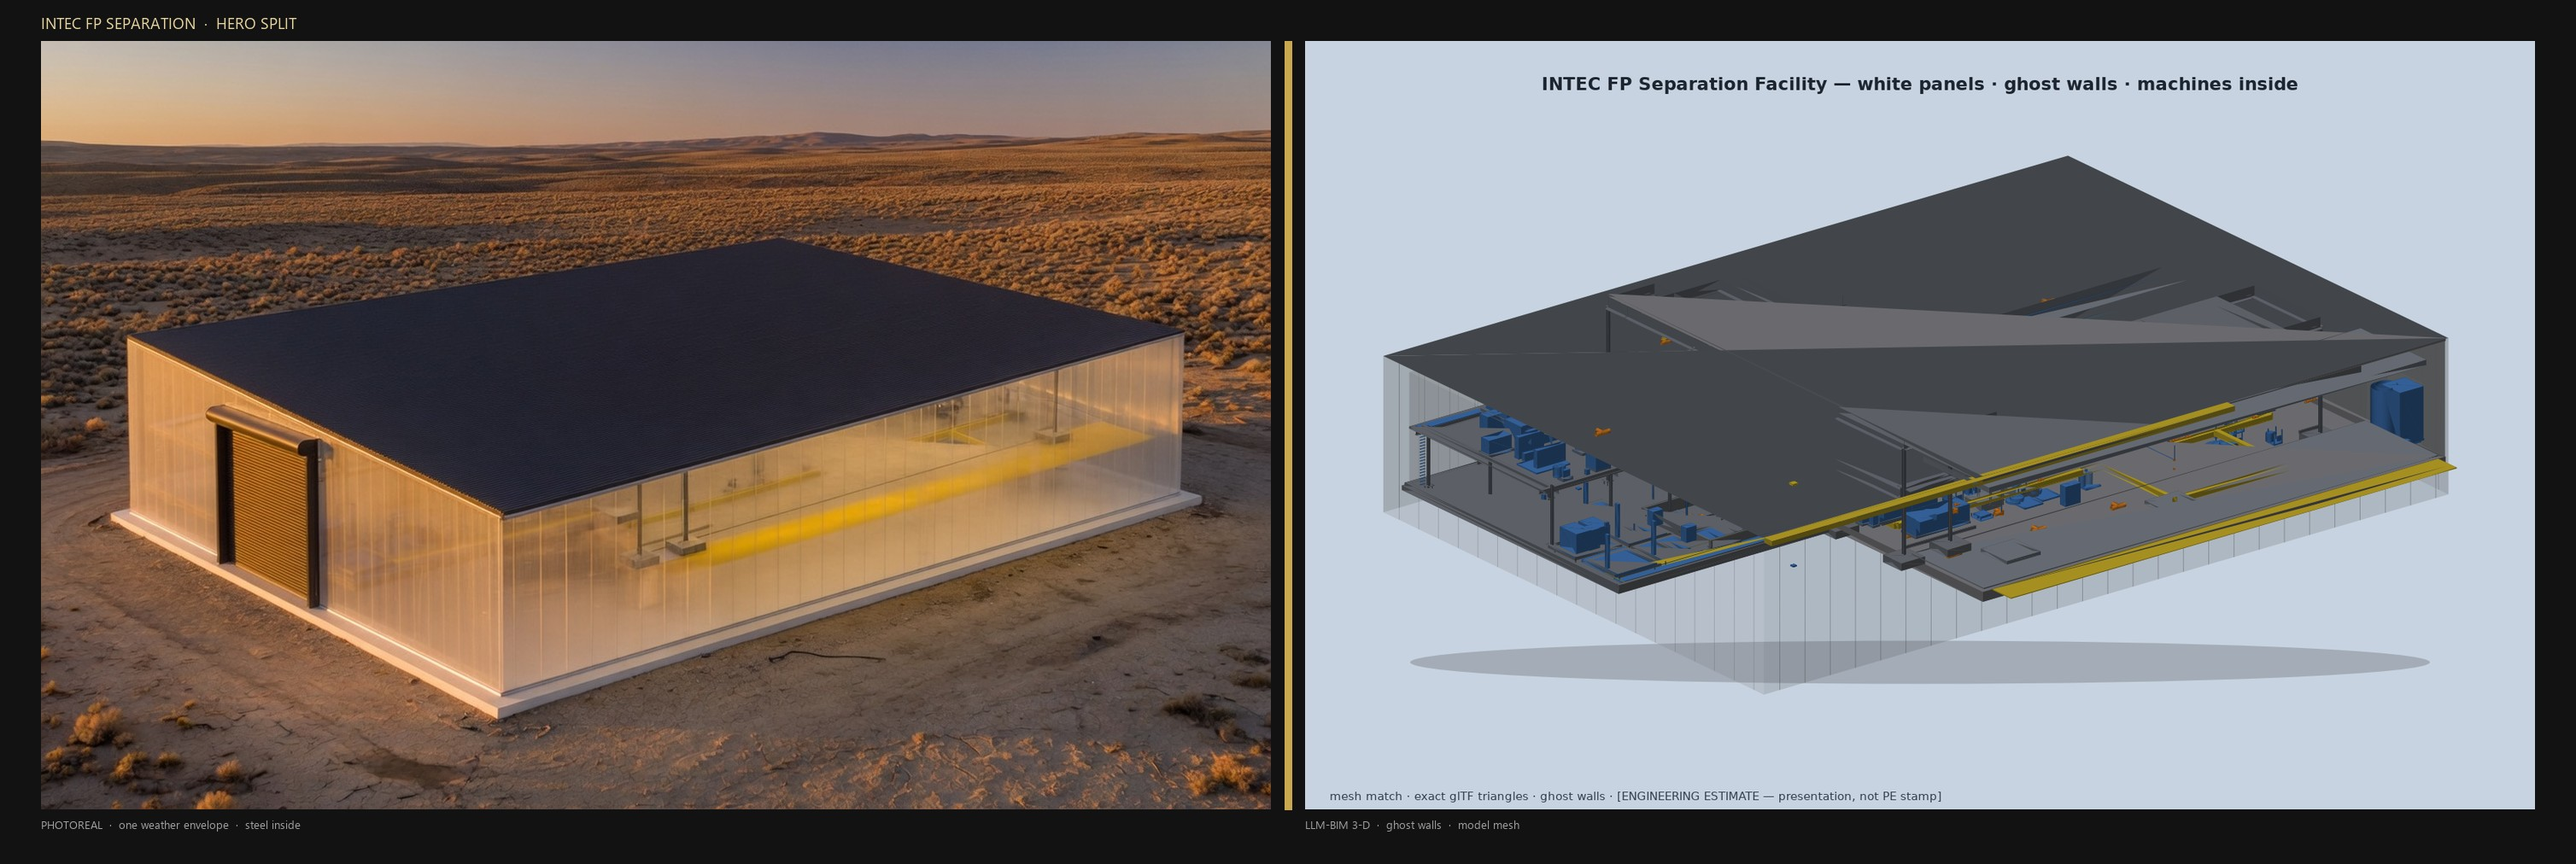
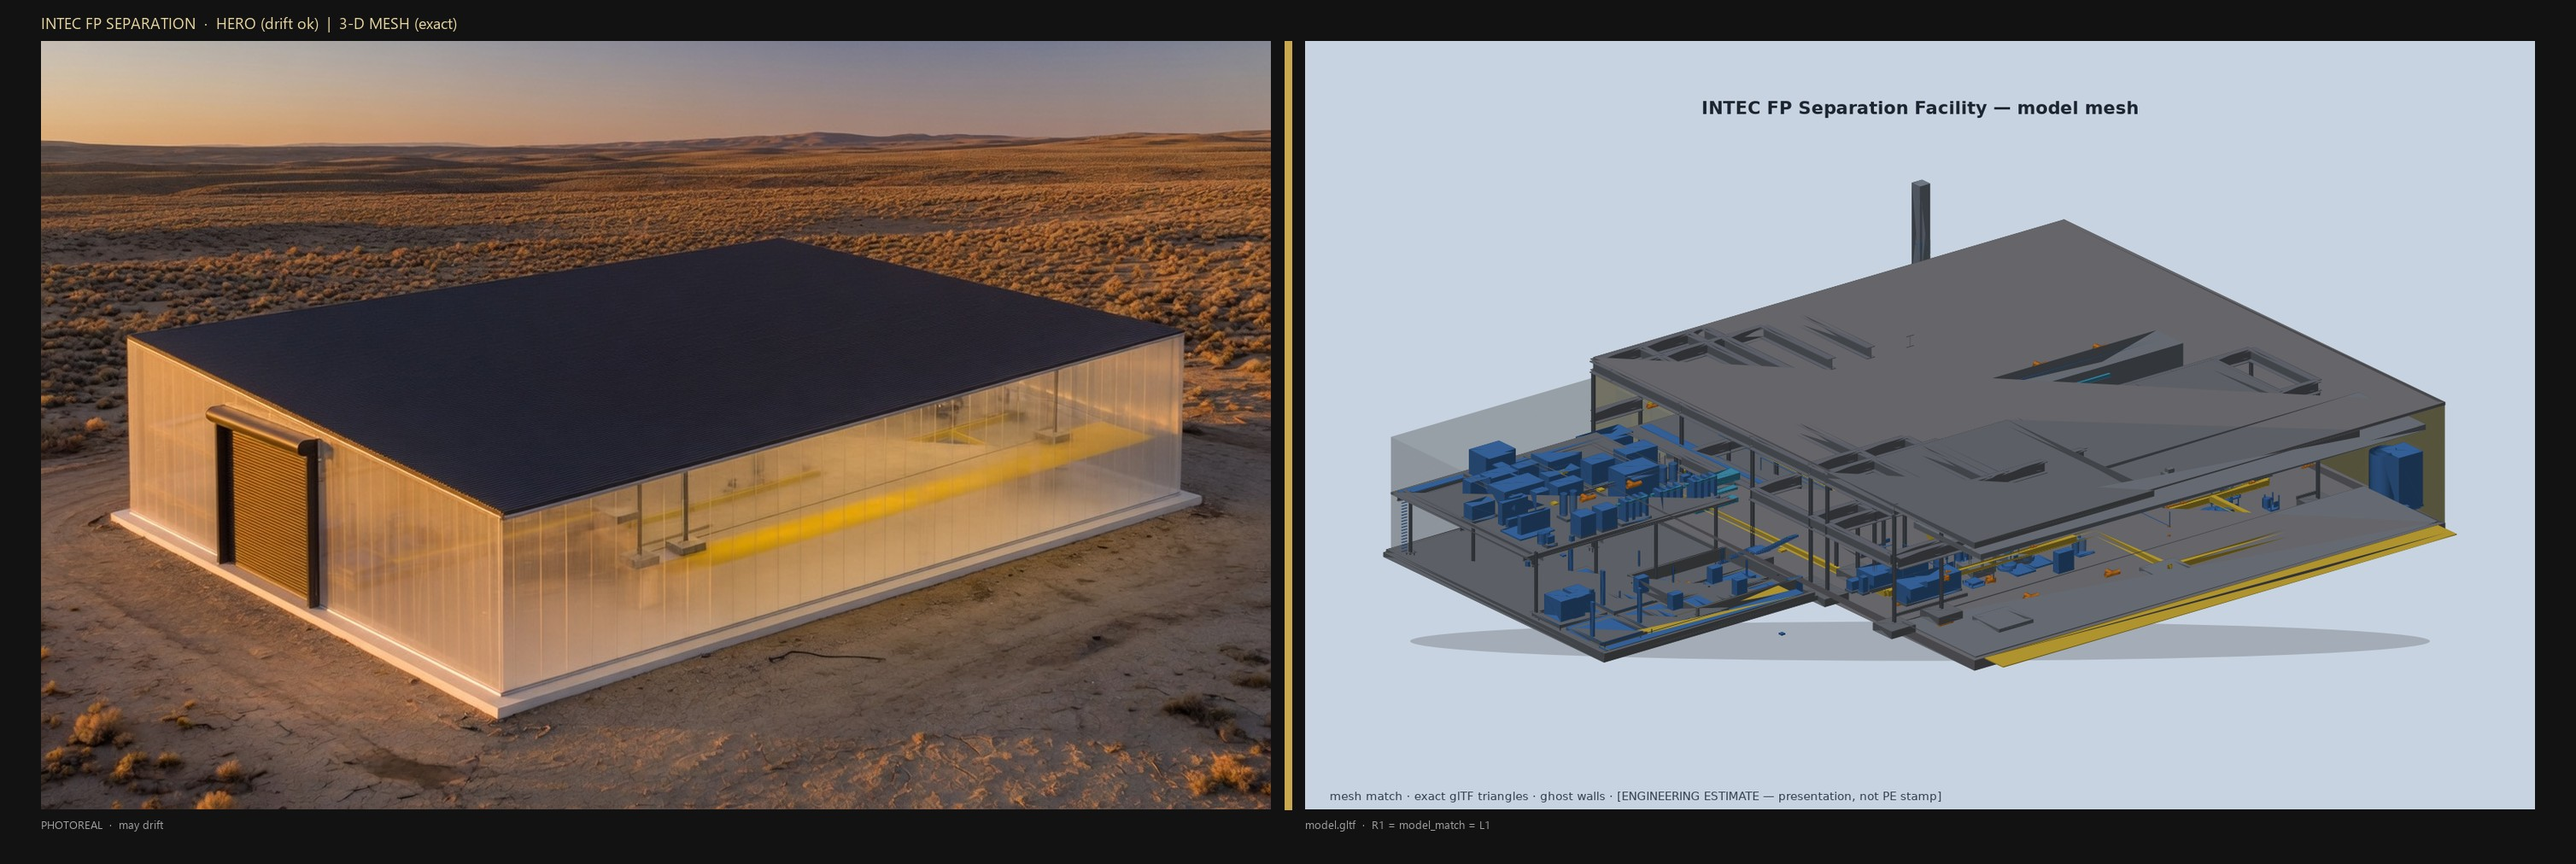
intec: mesh ISOs are the model, not a restaged hero
Stop injecting a padded AABB shell and a yellow eave to match the
photoreal still. R1 / model_match / plan / elev / L1-L3 are the same
glTF triangles as viewer3d. Hero may drift.

diff --git a/packages/geometry/llmbim_geometry/render_hero.py b/packages/geometry/llmbim_geometry/render_hero.py
@@ -278,12 +278,17 @@ def _quad(a: _Vec3, b: _Vec3, c: _Vec3, d: _Vec3, key: str) -> list[_Tri]:
 
 
 def _inject_closed_envelope(tris: list[_Tri]) -> list[_Tri]:
-    """Solid roof deck + perimeter walls so product stills are closed exterior.
+    """DEPRECATED restage — do not call for product stills.
 
-    Pack glTF often lacks continuous roof/facade faces — beams read as open
-    steel and isos look into the hall. Cap + four wall planes seal the shell;
-    walls use material ``wall`` (lightly ghosted); roof stays solid.
+    Invented a padded AABB shell + roof that did not match model.gltf.
+    Ryan 2026-08-17: 3-D IS the model; ISOs must match it exactly.
+    Kept only so old callers do not ImportError.
     """
+    return list(tris)
+
+
+def _inject_closed_envelope_LEGACY_UNUSED(tris: list[_Tri]) -> list[_Tri]:
+    """Former fake shell. Not used. Left for git blame."""
     if not tris:
         return tris
     x0, x1, y0, y1, z0, z1 = _shell_bounds(tris)
@@ -353,47 +358,26 @@ def _inject_closed_envelope(tris: list[_Tri]) -> list[_Tri]:
 
 
 def _inject_yellow_canopy(tris: list[_Tri], shell_tris: list[_Tri]) -> list[_Tri]:
-    """South/east eave canopy strip (hero match — yellow apron on photo)."""
-    x0, x1, y0, y1, z0, z1 = _shell_bounds(tris)
-    strip_h = 0.50
-    yb = y1 - strip_h - 0.08
-    yt = y1 - 0.06
-    xs = x0 + 0.32 * (x1 - x0)
-    xe = x1 - 0.04
-    zo = z0 - 1.15
-    zi = z0 + 0.04
-    # equip_gas keyed yellow; presentation_tint maps to canopy gold
-    return (
-        _quad((xs, yb, zo), (xe, yb, zo), (xe, yt, zo), (xs, yt, zo), "equip_gas")
-        + _quad((xs, yb, zi), (xs, yb, zo), (xs, yt, zo), (xs, yt, zi), "equip_gas")
-        + _quad((xe, yb, zo), (xe, yb, zi), (xe, yt, zi), (xe, yt, zo), "equip_gas")
-        + _quad((xs, yt, zo), (xe, yt, zo), (xe, yt, zi), (xs, yt, zi), "equip_gas")
-        + shell_tris
-    )
+    """DEPRECATED — do not invent a yellow eave to match a photoreal hero.
+
+    Ryan 2026-08-17: hero may drift; mesh ISOs must be the model.
+    """
+    return list(shell_tris)
 
 
 def _exterior_product_tris(tris: list[_Tri]) -> list[_Tri]:
-    """Closed exterior product mesh: white panel shell + machines under ghost walls.
+    """Exact glTF triangles. No injected shell, no yellow eave.
 
-    Keeps machine solids + frame so ghost walls show wireframe/equipment
-    inside. Drops only fine MEP clutter. Roof solid (no exposed steel).
+    Primary stills are the model. Drop only fine MEP so walls/frame/machines
+    read; do not restage geometry.
     """
-    closed = _inject_closed_envelope(tris)
     out: list[_Tri] = []
-    for v0, v1, v2, key in closed:
+    for v0, v1, v2, key in tris:
         k = (key or "").lower()
         if k in _INTERIOR_DROP_KEYS or k.startswith("pipe_"):
             continue
-        # keep machines, frame, shell, walls, doors, canopy keys
-        if k.startswith("equip_") and k not in _MACHINE_KEEP_KEYS and k != "equip_shell":
-            # keep major equipment kinds; skip unknown fine parts
-            if k not in (
-                "equip_chiller", "equip_pedestal", "equip_yoke",
-                "equip_vacuum", "equip_cartridge", "equip_gas",
-            ):
-                continue
         out.append((v0, v1, v2, key))
-    return _inject_yellow_canopy(tris, out)
+    return out or list(tris)
 
 
 def export_mesh_product_views(
@@ -403,17 +387,10 @@ def export_mesh_product_views(
     title_prefix: str = "llm-bim",
     gltf_name: str = "model.gltf",
 ) -> list[Path]:
-    """Write multi-view PNGs from pack ``model.gltf`` — matches viewer 3D.
+    """Write multi-view PNGs from pack ``model.gltf`` — same triangles as viewer 3D.
 
-    Primary product stills: **closed roof deck + ghost walls** (no process-open
-    cutaway, no exposed roof steel, no iso angling into the hall). Process-open
-    remains MEP-only.
-
-    Files:
-      R1_iso.png / model_match_iso_full.png  closed shell + ghost walls (hero 3-D)
-      model_match_iso.png                    same
-      R1_iso_process.png                     process-open (MEP only)
-      R2_plan / R3_elev / R4_elev            elev/plan with ghost walls
+    Primary stills are the live mesh. No injected envelope, no yellow eave.
+    Process-open is the only filtered view (roof faces dropped for MEP).
     """
     pack = Path(pack_dir)
     gltf_path = pack / gltf_name
@@ -435,36 +412,36 @@ def export_mesh_product_views(
             "R1_iso.png",
             218.0,
             22.0,
-            f"{prefix} — white panels · ghost walls · machines inside",
+            f"{prefix} — model mesh",
             False,
             True,
         ),
         (
             "R1_iso_process.png",
-            210.0,
+            218.0,
             22.0,
-            f"{prefix} — process train open (MEP review)",
+            f"{prefix} — process train (roof off)",
             True,
             False,
         ),
-        ("R2_plan.png", 0.0, 89.0, f"{prefix} — plan · ghost walls", False, True),
-        ("R3_elev.png", 180.0, 0.0, f"{prefix} — elev S · ghost walls", False, True),
-        ("R3_elev_S.png", 180.0, 0.0, f"{prefix} — elev S · ghost walls", False, True),
-        ("R4_elev_E.png", 90.0, 0.0, f"{prefix} — elev E · ghost walls", False, True),
+        ("R2_plan.png", 0.0, 89.0, f"{prefix} — plan · model mesh", False, True),
+        ("R3_elev.png", 180.0, 0.0, f"{prefix} — elev S · model mesh", False, True),
+        ("R3_elev_S.png", 180.0, 0.0, f"{prefix} — elev S · model mesh", False, True),
+        ("R4_elev_E.png", 90.0, 0.0, f"{prefix} — elev E · model mesh", False, True),
         (
             "model_match_iso.png",
             218.0,
             22.0,
-            f"{prefix} — white panels · ghost walls · machines inside",
+            f"{prefix} — model mesh",
             False,
             True,
         ),
-        ("model_match_plan.png", 0.0, 89.0, f"{prefix} — model-match plan · ghost walls", False, True),
+        ("model_match_plan.png", 0.0, 89.0, f"{prefix} — plan · model mesh", False, True),
         (
             "model_match_iso_full.png",
             218.0,
             22.0,
-            f"{prefix} — white panels · ghost walls · machines inside",
+            f"{prefix} — model mesh",
             False,
             True,
         ),
@@ -481,16 +458,15 @@ def export_mesh_product_views(
             elevation_deg=el,
             size=(1600, 1000) if "iso" in fname else (1600, 900),
             ghost_walls=ghost,
-            # Strong ghost — white panels translucent, machines/frame read through
-            wall_alpha=0.22,
+            wall_alpha=0.28,
             ghost_roof=False,
-            presentation_tint=not use_open,
+            presentation_tint=False,
         )
         paths.append(p)
     man = {
         "rule": (
-            "mesh match — primary stills = closed roof + light ghost walls + "
-            "no interior MEP (exterior 3/4, not iso into hall)"
+            "mesh match — primary stills = live model.gltf triangles; "
+            "no injected shell; no yellow eave; hero may drift"
         ),
         "source": gltf_name,
         "triangle_count": len(tris),
@@ -505,6 +481,19 @@ def export_mesh_product_views(
         "honesty": "presentation stills from live model mesh — not PE stamp",
     }
     (out / "MESH_VIEWS.json").write_text(json.dumps(man, indent=2) + "\n", encoding="utf-8")
+    # Layout ISOs used to be a third language (colored AABBs). Same mesh,
+    # same cameras — hero may drift, these may not.
+    import shutil
+    aliases = (
+        ("R1_iso.png", "L1_layout_iso.png"),
+        ("model_match_plan.png", "L2_layout_plan.png"),
+        ("R3_elev_S.png", "L3_layout_elev.png"),
+    )
+    for src, dst in aliases:
+        a, b = out / src, out / dst
+        if a.is_file():
+            shutil.copyfile(a, b)
+            paths.append(b)
     return paths
 
 
